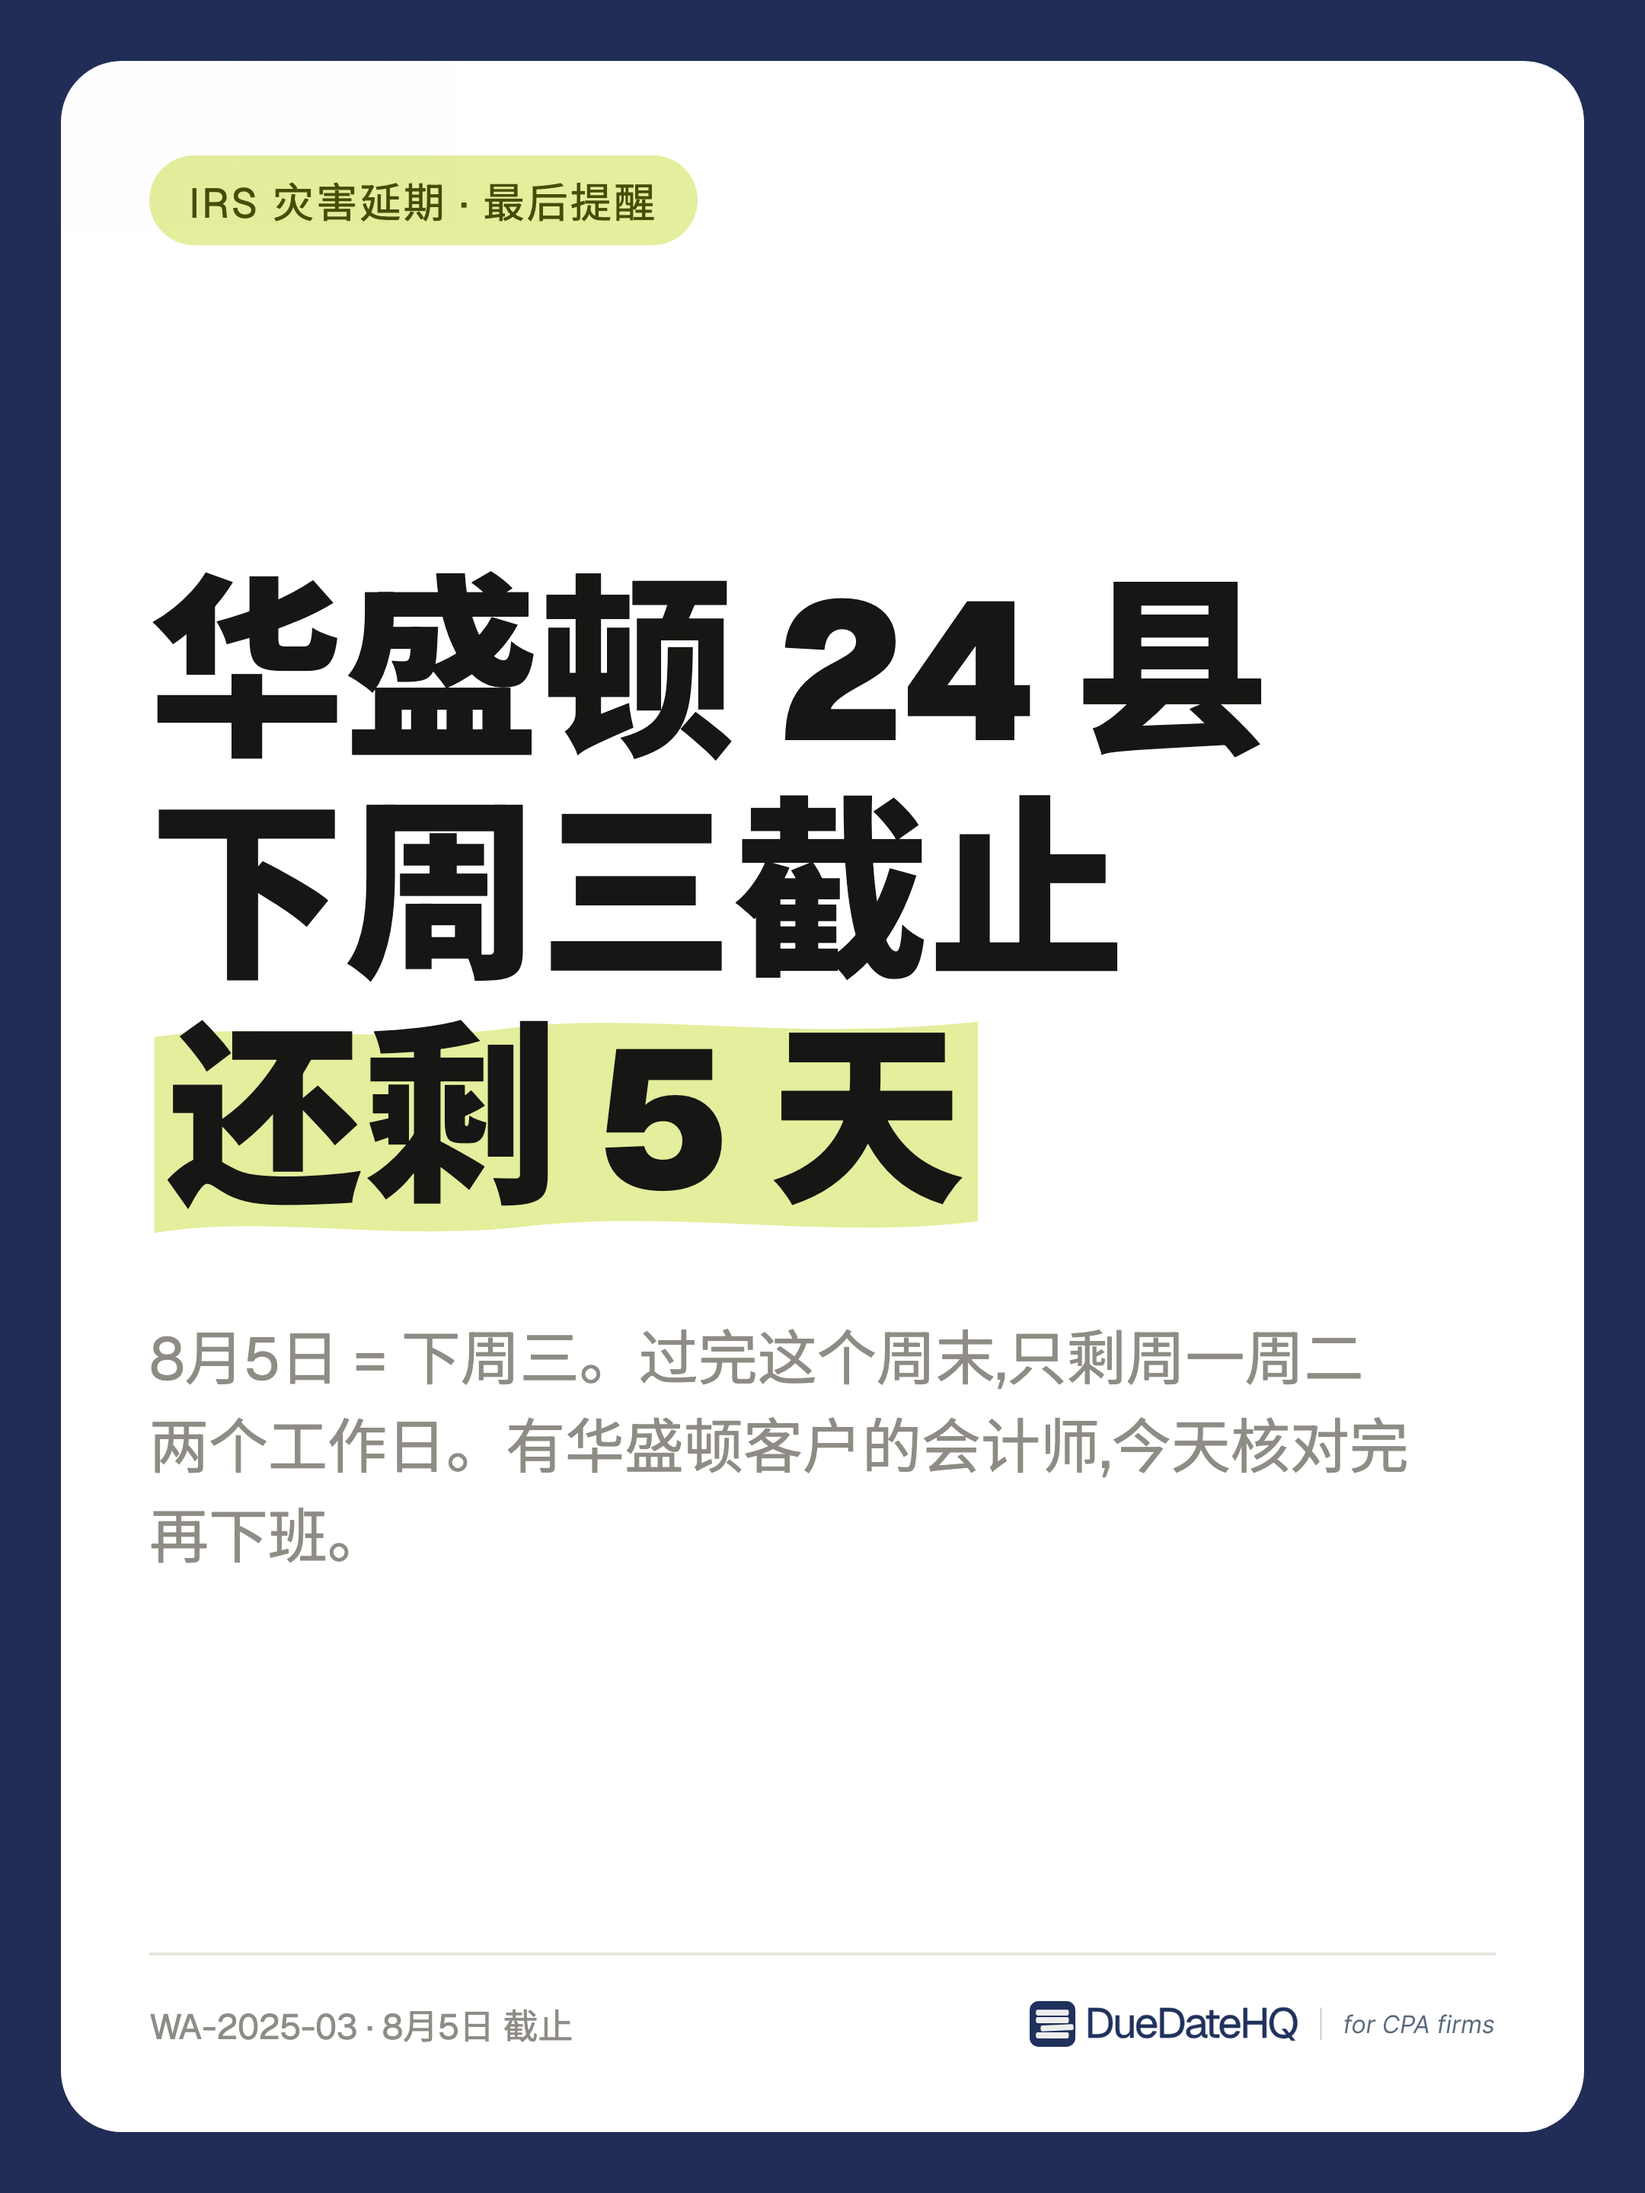
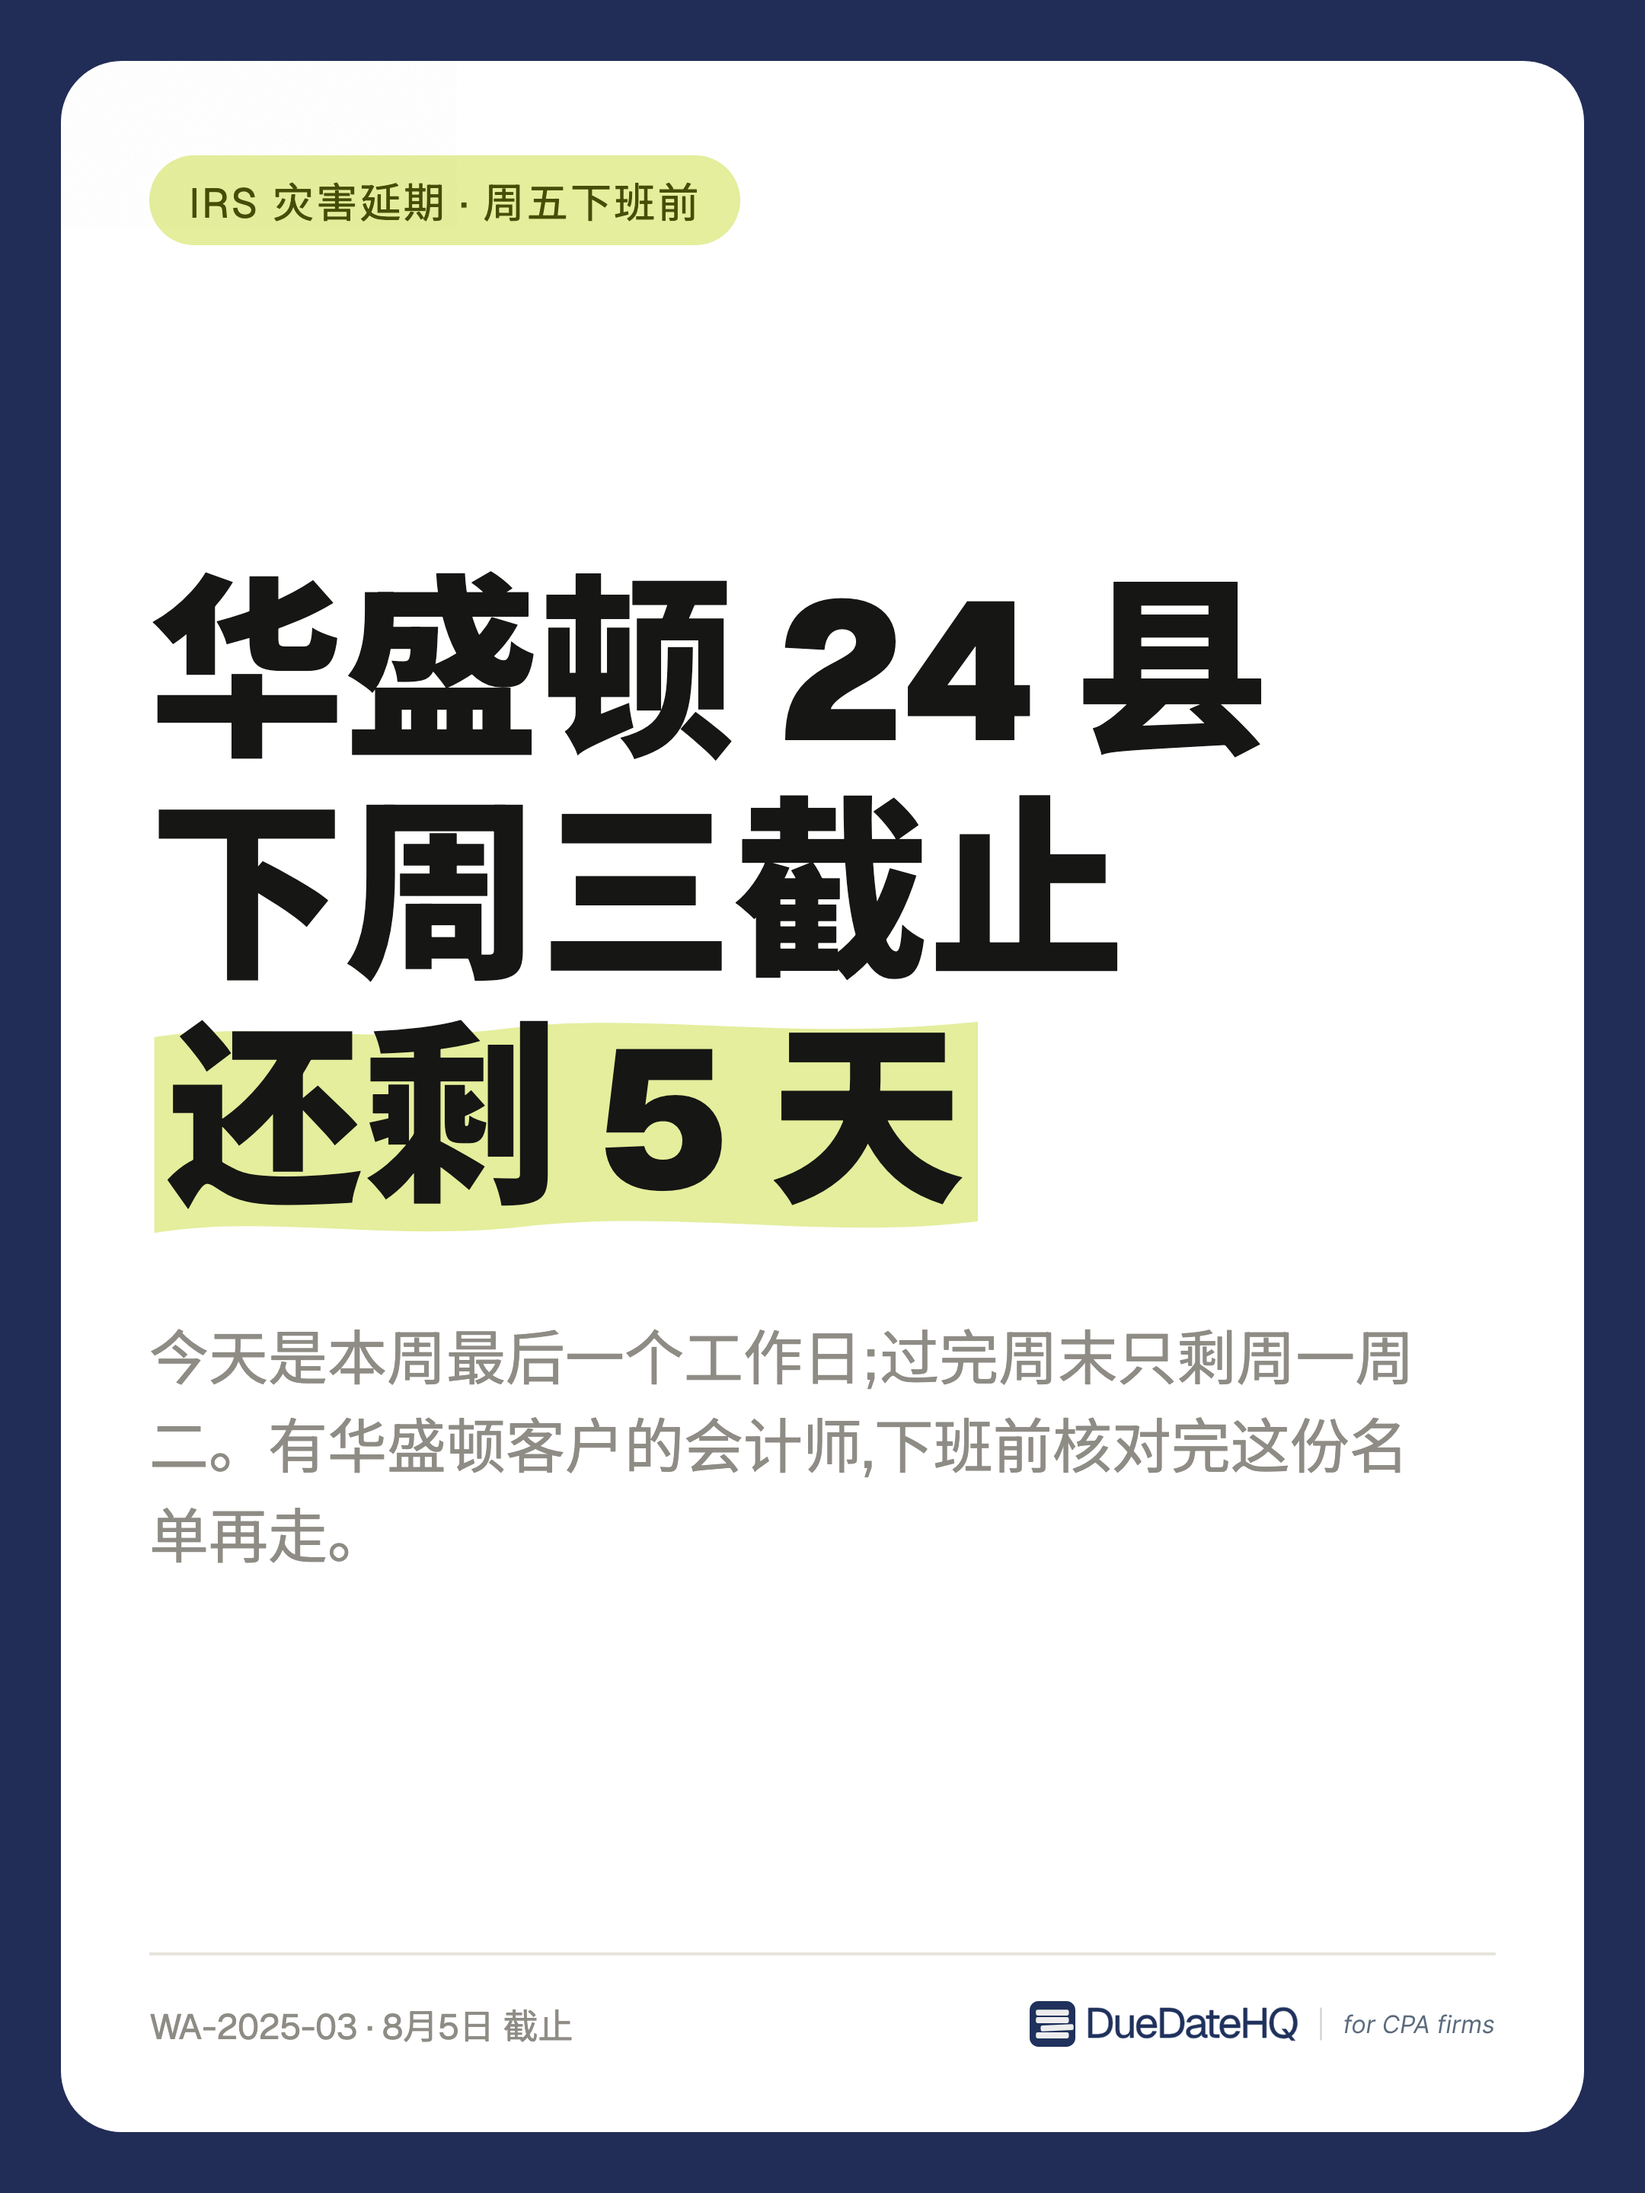
social: Friday pack copy — lead with the Friday before-you-leave checklist angle

Changed region(s): [[0.0931, 0.5938, 0.8685, 0.7188], [0.3102, 0.0625, 0.4653, 0.125]]

diff --git a/docs/marketing/xiaohongshu/posts/2026-07-31/README.md b/docs/marketing/xiaohongshu/posts/2026-07-31/README.md
@@ -11,22 +11,22 @@
 
 ## ① 华盛顿 · 8月5日 最后提醒(WA-2025-03)
 
-**小红书标题**(主推):`有华盛顿客户的CPA⚠下周三就是最后期限`
-(备选:`还剩5天⏰华盛顿24县报税倒计时` / `别等周一!华盛顿8月5日截止就在下周三`)
+**小红书标题**(主推):`周五下班前,华盛顿的单子核完再走⚠`
+(备选:`本周最后工作日,CPA走前做完这件事` / `有华盛顿客户的CPA⚠下周三就是最后期限`)
 
 **小红书配文**
 
 ```
-最后提醒!华盛顿 24 县 + 25 个部落领地的联邦报税截止日 8月5日(下周三)就到了。过完周末只剩两个工作日。
+今天是本周最后一个工作日。有华盛顿客户的会计师,下班前把这件事做完再走:8月5日(下周三)是 24 县 + 25 个部落领地的联邦报税最后期限,过完周末只剩周一周二。
+
+【周五下班前 checklist】
+· 拉一遍客户地址:落在 24 县 + 25 个部落领地内的,自动适用,无需申请
+· 核对这些还没报的:1040、1120 / 1120-S / 1065、1041、990、941 / 940、季度预缴
+· 县外但账册或记账人在县内的:今天就打 IRS 灾害热线,别拖到周一
+· 完整名单:irs.gov 公告 WA-2025-03
 
 【前情提要】
 2025 年 12月9日 起,华盛顿发生风暴、洪水、山体滑坡灾害。IRS 发布灾害减免(WA-2025-03),受灾期内到期的联邦申报与缴款延至 2026 年 8月5日 —— 已是最后期限,别再等新延期。
-
-【今天要做的】
-· 对照客户地址:24 县 + 25 个部落领地内的自动适用,无需申请
-· 覆盖 1040、1120 / 1120-S / 1065、1041、990、941 / 940、季度预缴
-· 县外但账册或记账人在县内:致电 IRS 灾害热线申请
-· 完整名单:irs.gov 公告 WA-2025-03
 
 来源:IRS 灾害减免公告 WA-2025-03(irs.gov 可查)
 
@@ -39,7 +39,7 @@
 
 ```
 IRS tax deadline — Washington's Aug 5, 2026 extension ends next Wednesday.
-Final reminder: the IRS postponed federal filing and payment deadlines to Aug 5, 2026 for 24 Washington counties and 25 tribal nations under disaster relief WA-2025-03 (severe storms, straight-line winds, flooding, landslides and mudslides). After this weekend, two working days remain. Covers returns and payments due on or after Dec 9, 2025 — Forms 1040, 1120, 1120-S, 1065, estimated payments included. Automatic for an address of record in the area; if records or the preparer are inside but the client is outside, call the IRS disaster hotline.
+Before you sign off for the weekend: it's the last working day of the week, and after it only Monday and Tuesday remain. The IRS postponed federal filing and payment deadlines to Aug 5, 2026 for 24 Washington counties and 25 tribal nations under disaster relief WA-2025-03 (severe storms, straight-line winds, flooding, landslides and mudslides). Friday checklist: sweep your client list for addresses in the area (relief is automatic — no application), confirm what's still unfiled (Forms 1040, 1120, 1120-S, 1065, estimated payments — anything due on or after Dec 9, 2025), and if records or the preparer are inside but the client is outside, call the IRS disaster hotline today, not Monday.
 Which Washington clients are still open on your list? IRS source in the comments.
 #IRS #TaxDeadline #DisasterRelief #CPA #Washington
 ```
